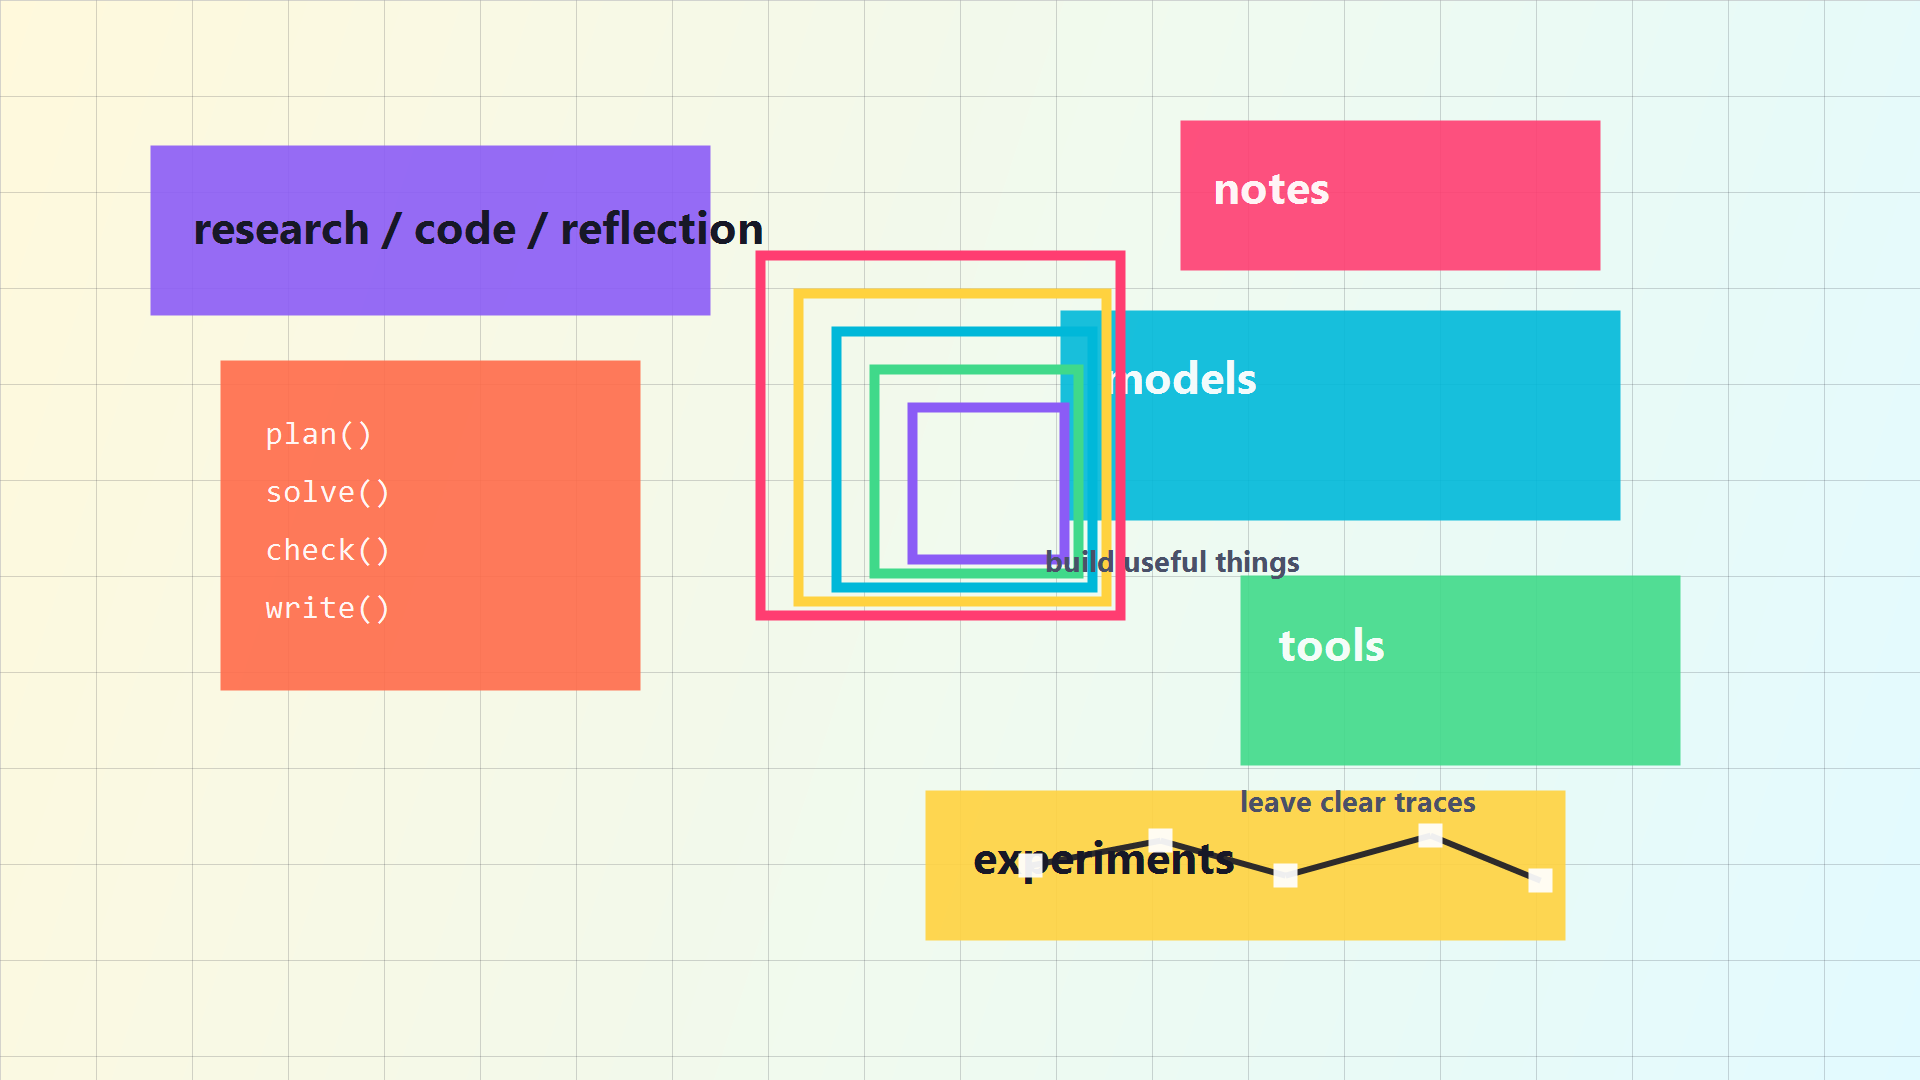
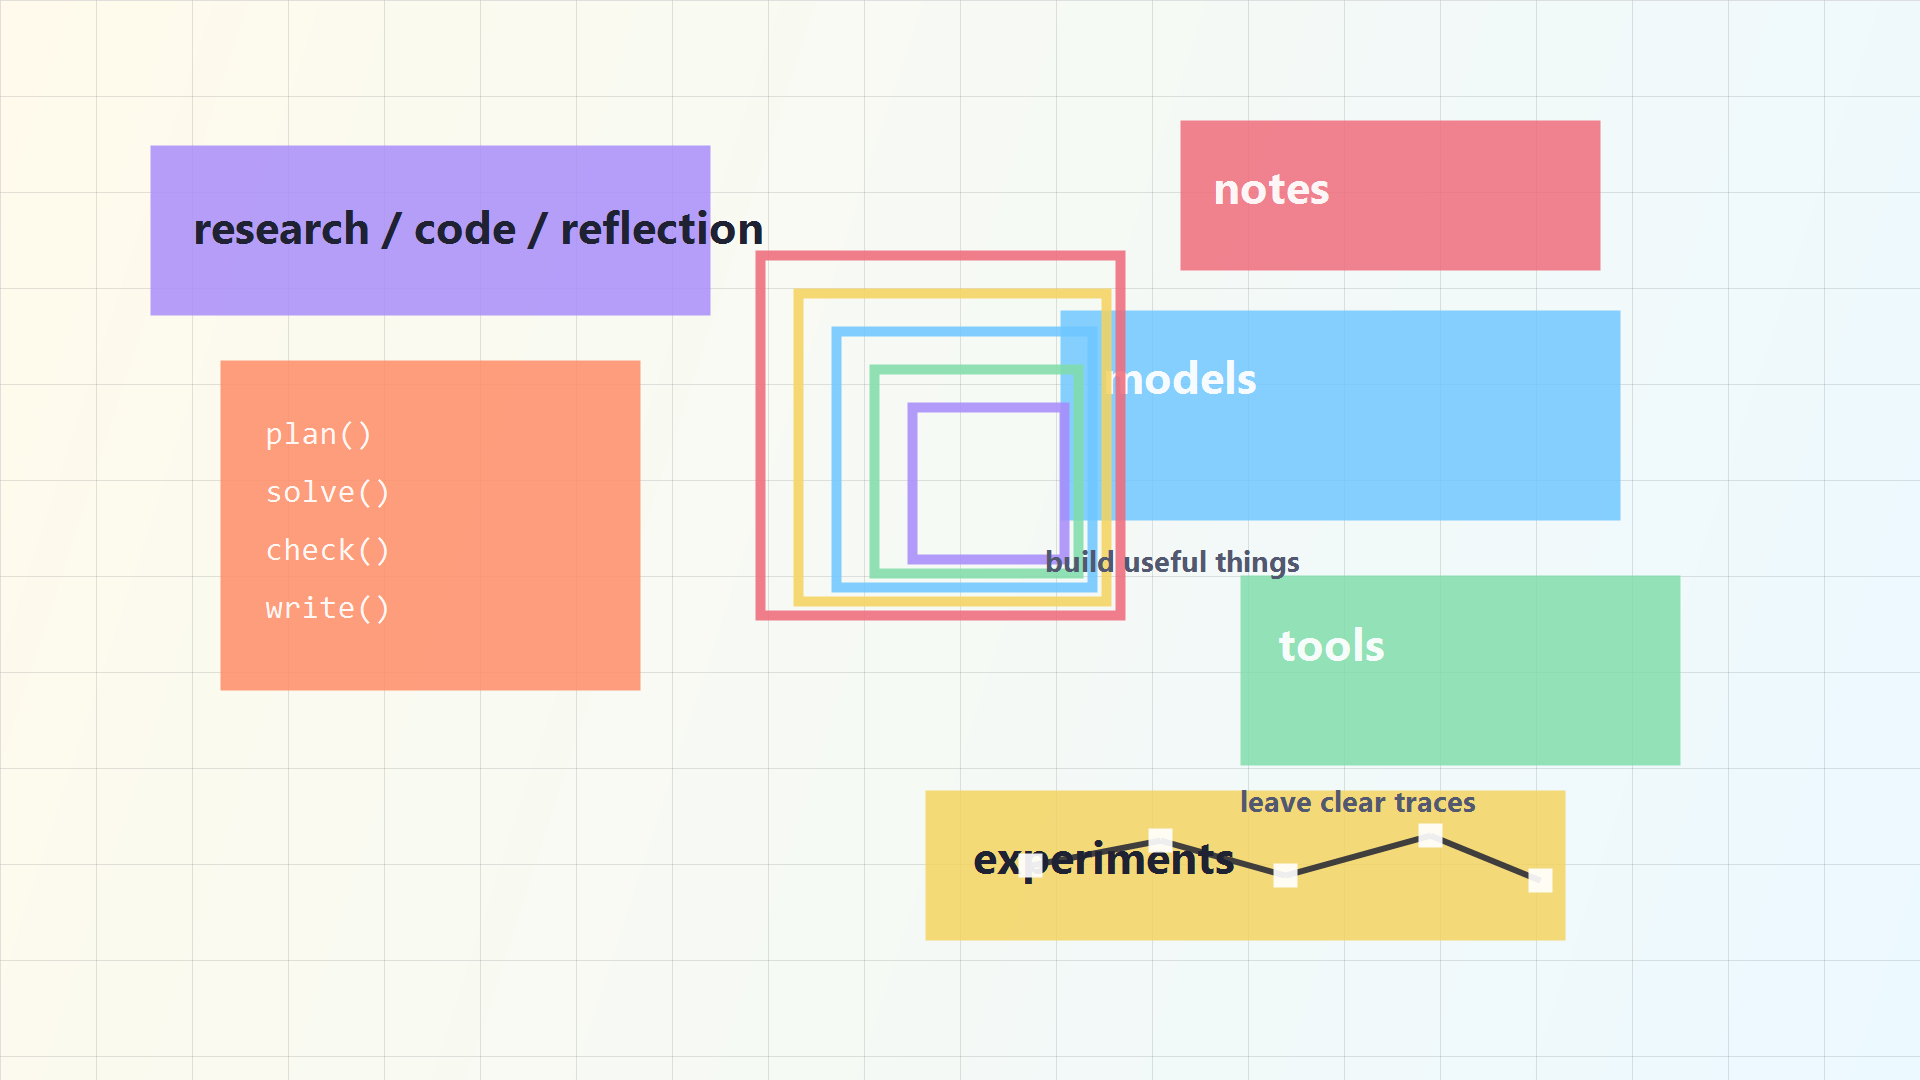
Soften energetic color palette

Changed region(s): [[0.0625, 0.0917, 0.8438, 0.5806], [0.4688, 0.5194, 0.875, 0.8861], [0.0938, 0.3361, 0.3438, 0.6417]]

diff --git a/css/style.css b/css/style.css
@@ -2,19 +2,19 @@
   --color-ink: #171827;
   --color-muted: #62677a;
   --color-paper: #ffffff;
-  --color-soft: #fff8ec;
-  --color-line: #eadfeb;
-  --color-brand: #ff3d71;
-  --color-brand-dark: #c9184a;
-  --color-blue: #2477f2;
-  --color-teal: #00a884;
-  --color-amber: #f5a400;
-  --color-coral: #ff6b4a;
-  --color-sun: #ffd23f;
-  --color-mint: #40d98a;
-  --color-sky: #00b8d9;
-  --color-violet: #8b5cf6;
-  --shadow-soft: 0 18px 44px rgba(50, 38, 92, 0.12);
+  --color-soft: #fff8f0;
+  --color-line: #e9dfe6;
+  --color-brand: #ef6a7a;
+  --color-brand-dark: #bf4057;
+  --color-blue: #4f86e8;
+  --color-teal: #18a999;
+  --color-amber: #d99a22;
+  --color-coral: #ff8a65;
+  --color-sun: #f4d35e;
+  --color-mint: #7fdca9;
+  --color-sky: #6ec6ff;
+  --color-violet: #a78bfa;
+  --shadow-soft: 0 18px 44px rgba(49, 43, 85, 0.1);
   --radius: 8px;
   --container: 1180px;
   --header-height: 76px;
@@ -31,7 +31,7 @@ html {
 body {
   margin: 0;
   color: var(--color-ink);
-  background: #fffdf7;
+  background: #fffdf9;
   font-family: Inter, ui-sans-serif, system-ui, -apple-system, BlinkMacSystemFont, "Segoe UI", Helvetica, Arial, sans-serif;
   font-size: 16px;
   line-height: 1.65;
@@ -122,7 +122,7 @@ code {
   z-index: 60;
   min-height: var(--header-height);
   border-bottom: 1px solid rgba(234, 223, 235, 0.95);
-  background: rgba(255, 253, 247, 0.94);
+  background: rgba(255, 253, 249, 0.94);
   backdrop-filter: blur(14px);
 }
 
@@ -185,7 +185,7 @@ code {
 .site-nav a:hover,
 .site-nav a[aria-current="page"] {
   color: var(--color-brand);
-  background: #fff0b8;
+  background: #fff1cf;
 }
 
 .menu-toggle {
@@ -197,7 +197,7 @@ code {
   gap: 4px;
   border: 1px solid var(--color-line);
   border-radius: 6px;
-  background: #fffdf7;
+  background: #fffdf9;
 }
 
 .menu-toggle span {
@@ -222,8 +222,8 @@ code {
   position: absolute;
   inset: 0;
   background:
-    linear-gradient(90deg, rgba(13, 17, 33, 0.82), rgba(13, 17, 33, 0.44) 58%, rgba(13, 17, 33, 0.22)),
-    linear-gradient(135deg, rgba(255, 61, 113, 0.32), rgba(0, 184, 217, 0.2) 48%, rgba(255, 210, 63, 0.22));
+    linear-gradient(90deg, rgba(18, 23, 43, 0.8), rgba(18, 23, 43, 0.46) 58%, rgba(18, 23, 43, 0.24)),
+    linear-gradient(135deg, rgba(239, 106, 122, 0.26), rgba(110, 198, 255, 0.18) 48%, rgba(244, 211, 94, 0.2));
 }
 
 .home-hero-content {
@@ -282,13 +282,13 @@ code {
 .button-primary {
   color: #ffffff;
   background: var(--color-brand);
-  box-shadow: 0 10px 24px rgba(255, 61, 113, 0.28);
+  box-shadow: 0 10px 24px rgba(239, 106, 122, 0.24);
 }
 
 .button-secondary {
   color: #ffffff;
-  border-color: rgba(255, 210, 63, 0.9);
-  background: rgba(255, 210, 63, 0.16);
+  border-color: rgba(244, 211, 94, 0.9);
+  background: rgba(244, 211, 94, 0.15);
 }
 
 .section {
@@ -301,7 +301,7 @@ code {
 
 .section-muted {
   background:
-    linear-gradient(135deg, #fff8dc 0%, #ecfbff 48%, #fff0f5 100%);
+    linear-gradient(135deg, #fff7df 0%, #effbff 48%, #f7f2ff 100%);
 }
 
 .section-heading {
@@ -365,18 +365,18 @@ code {
 }
 
 .metric-card:nth-child(1) {
-  border-color: #f4c400;
-  background: #fff4b8;
+  border-color: #ebc85a;
+  background: #fff3c7;
 }
 
 .metric-card:nth-child(2) {
-  border-color: #8fdcff;
-  background: #e9f9ff;
+  border-color: #a7dbff;
+  background: #edf9ff;
 }
 
 .metric-card:nth-child(3) {
-  border-color: #8be7b0;
-  background: #eafaef;
+  border-color: #a9e6c1;
+  background: #effaf4;
 }
 
 .metric-card strong {
@@ -414,8 +414,8 @@ code {
 .info-card:hover,
 .post-card:hover,
 .metric-card:hover {
-  border-color: #ffb3c6;
-  box-shadow: 0 14px 30px rgba(50, 38, 92, 0.12);
+  border-color: #f6bac6;
+  box-shadow: 0 14px 30px rgba(49, 43, 85, 0.11);
 }
 
 .feature-list,
@@ -450,8 +450,8 @@ code {
   padding: 72px 0 54px;
   border-bottom: 1px solid var(--color-line);
   background:
-    linear-gradient(120deg, rgba(255, 210, 63, 0.28), rgba(0, 184, 217, 0.13) 48%, rgba(255, 61, 113, 0.16)),
-    #fffdf7;
+    linear-gradient(120deg, rgba(244, 211, 94, 0.22), rgba(110, 198, 255, 0.14) 48%, rgba(167, 139, 250, 0.14)),
+    #fffdf9;
 }
 
 .page-hero h1,
@@ -502,10 +502,10 @@ code {
   min-height: 30px;
   align-items: center;
   padding: 0 10px;
-  border: 1px solid #f2d7e2;
+  border: 1px solid #ecd9df;
   border-radius: 6px;
   color: var(--color-ink);
-  background: #fff0b8;
+  background: #fff2cf;
   font-size: 13px;
   font-weight: 800;
 }
@@ -549,8 +549,8 @@ code {
   align-items: center;
   padding: 0 9px;
   border-radius: 6px;
-  color: #7a2e00;
-  background: #ffeab0;
+  color: #7a3b16;
+  background: #ffe8bb;
   font-size: 12px;
   font-weight: 800;
 }
@@ -570,7 +570,7 @@ code {
   border: 1px solid var(--color-line);
   border-radius: 6px;
   color: var(--color-ink);
-  background: #eefaff;
+  background: #f0faff;
   font-weight: 800;
   text-decoration: none;
 }
@@ -683,7 +683,7 @@ code {
   padding: 34px 0;
   color: rgba(255, 255, 255, 0.82);
   background:
-    linear-gradient(90deg, #171827 0%, #302055 46%, #006b73 100%);
+    linear-gradient(90deg, #1f2233 0%, #35345f 48%, #176f73 100%);
 }
 
 .footer-grid {
@@ -796,8 +796,8 @@ code {
 
   .hero-scrim {
     background:
-      linear-gradient(90deg, rgba(13, 17, 33, 0.9), rgba(13, 17, 33, 0.72) 62%, rgba(13, 17, 33, 0.5)),
-      linear-gradient(135deg, rgba(255, 61, 113, 0.24), rgba(0, 184, 217, 0.16) 48%, rgba(255, 210, 63, 0.18));
+      linear-gradient(90deg, rgba(18, 23, 43, 0.9), rgba(18, 23, 43, 0.72) 62%, rgba(18, 23, 43, 0.5)),
+      linear-gradient(135deg, rgba(239, 106, 122, 0.2), rgba(110, 198, 255, 0.14) 48%, rgba(244, 211, 94, 0.16));
   }
 
   .home-hero-content {

diff --git a/editing-guide/visual-style.md b/editing-guide/visual-style.md
@@ -4,23 +4,23 @@
 
 ## 当前视觉方向
 
-这个个人站应比课题组网站更鲜活、更像个人作品集和学习笔记空间。当前采用偏“多巴胺”的多色系统：
+这个个人站应比课题组网站更鲜活、更像个人作品集和学习笔记空间。当前采用“舒服但有活力”的柔和多色系统：色相丰富，但饱和度不过分刺眼。
 
-- 珊瑚红：主要行动按钮、重点状态、部分卡片强调边。
-- 柠檬黄：首页指标卡、辅助按钮、轻快提示。
-- 亮蓝：研究和时间信息。
+- 柔珊瑚红：主要行动按钮、重点状态、部分卡片强调边。
+- 温柠檬黄：首页指标卡、辅助按钮、轻快提示。
+- 清亮蓝：研究和时间信息。
 - 薄荷绿：工具、技能、实验类内容。
-- 青蓝：项目和探索类内容。
-- 紫罗兰：写作、博客、个人表达。
+- 天蓝：项目和探索类内容。
+- 柔紫罗兰：写作、博客、个人表达。
 
 这些颜色集中定义在 `css/style.css` 的 `:root` 中：
 
 ```css
---color-brand: #ff3d71;
---color-sun: #ffd23f;
---color-mint: #40d98a;
---color-sky: #00b8d9;
---color-violet: #8b5cf6;
+--color-brand: #ef6a7a;
+--color-sun: #f4d35e;
+--color-mint: #7fdca9;
+--color-sky: #6ec6ff;
+--color-violet: #a78bfa;
 ```
 
 ## 和课题组网站的区别
@@ -67,4 +67,4 @@ assets/images/site/hero-workspace.png
 
 - 横向大图，推荐 16:9。
 - 画面左侧不要过于复杂，因为首页文字主要在左侧。
-- 色彩可以鲜活，但不要让标题和按钮看不清。
+- 色彩可以鲜活，但应偏柔和、通透，不要让标题和按钮看不清。